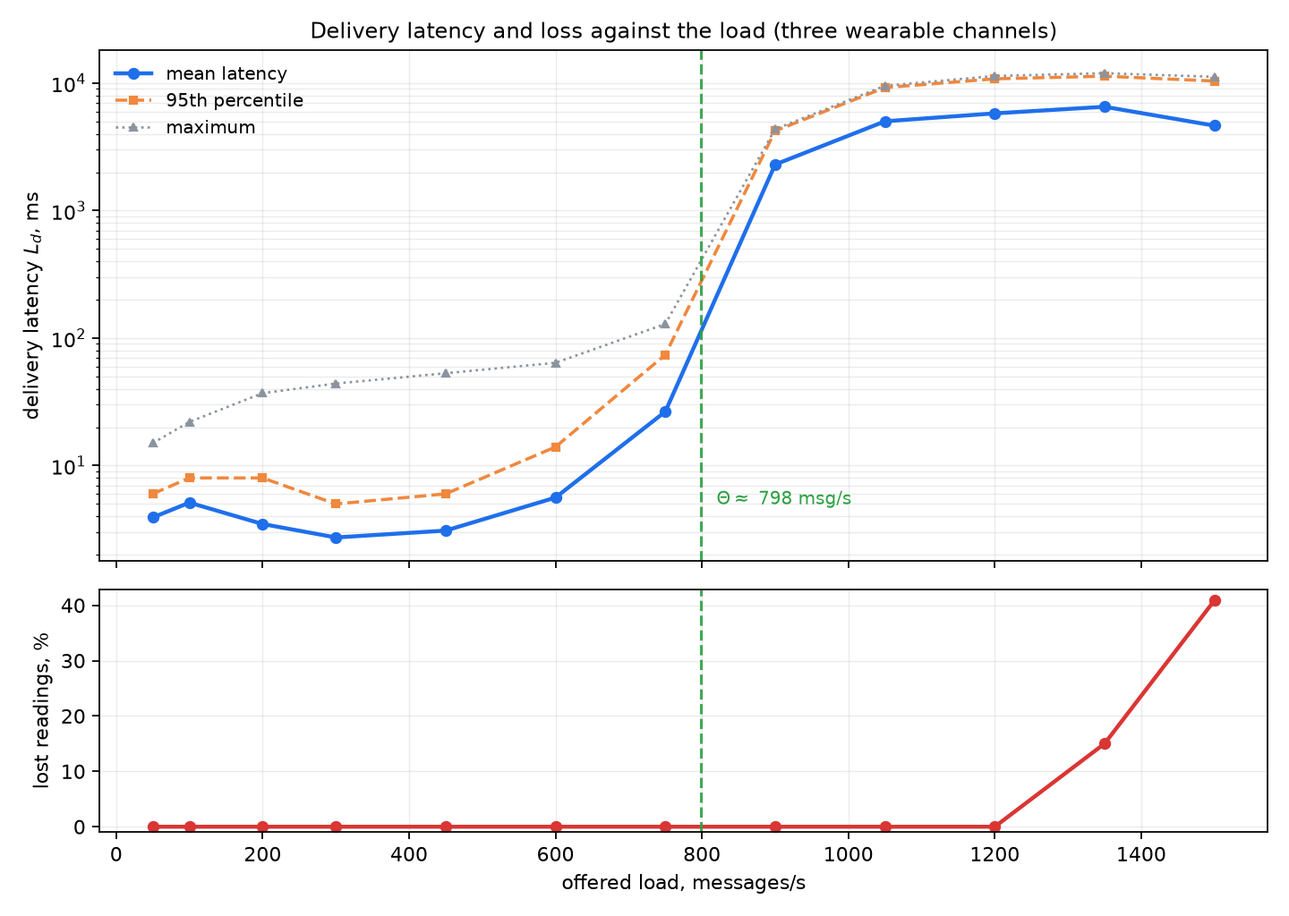
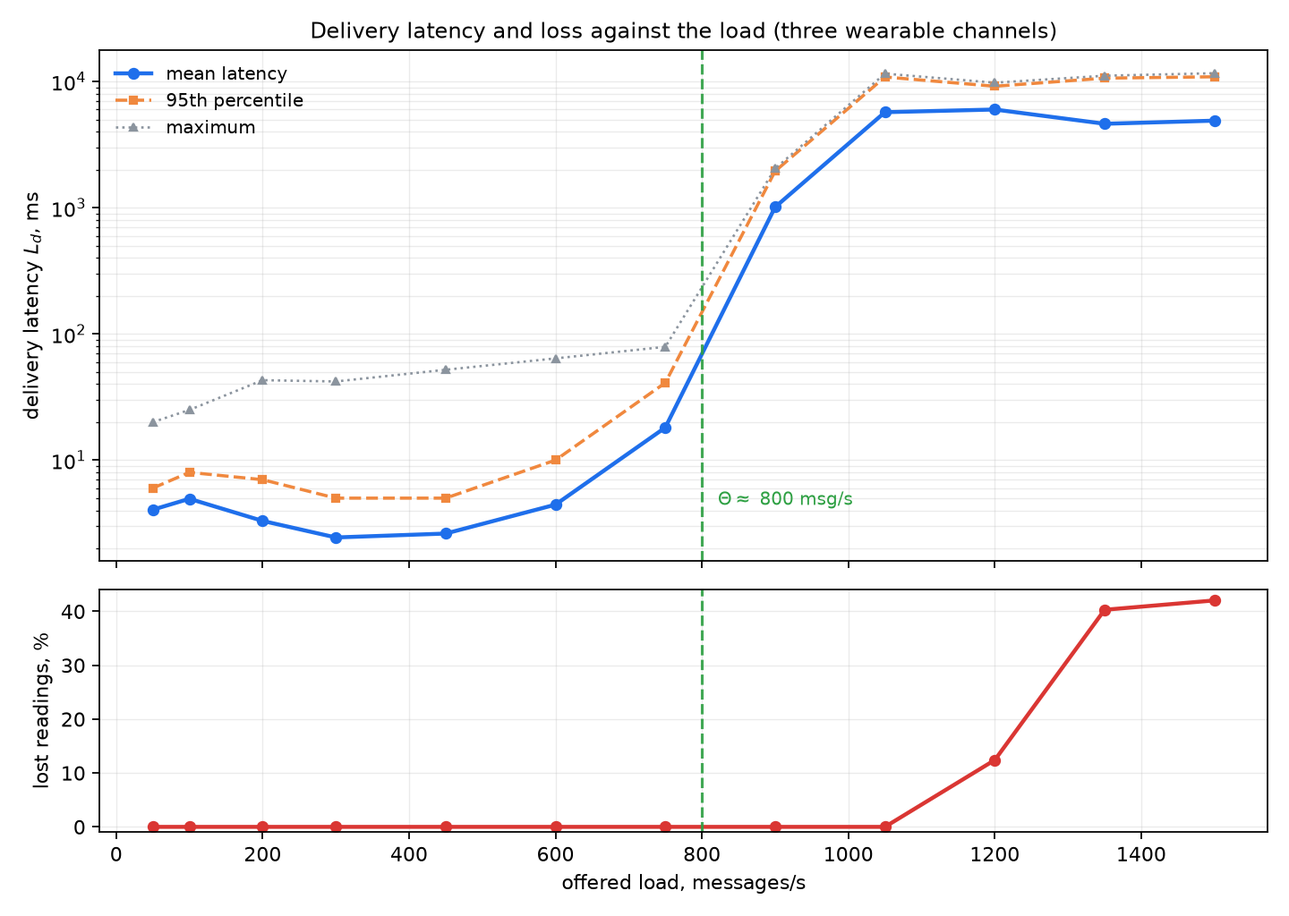
Rewrite the Lab 3 prose and re-measure every number
The text of the four documents and the readme is rewritten for the reader:
contrast constructions, bold lead-ins, one-line closers and dashes removed,
sentences that explain the work instead of the system cut, and the two passages
that presented a design decision as a shortcoming stated as decisions.

Every measurement was run again on the container deployment and the report
follows the new run:

- channel check: 1800 sent, 1746 stored, loss 0.030, 65 gaps, 14 duplicates,
  11 out of order, 17 rejected; mean latency 20.5 ms, median 7 ms
- link break: 17 835 records buffered, drained in 38 s, 33 383 sent and 33 383
  stored, loss 0
- load test: twelve steps, the received rate between 690 and 844 messages/s
  from 900 up, loss 12.4 % at 1200 and 42.0 % at 1500, the gateway at 48 to 50 %
  of its one-core quota
- the drain of the buffer is now explained with the rate measured during the
  drain, 469 records per second, instead of the link rate alone

diff --git a/docs/deployment.md b/docs/deployment.md
@@ -6,17 +6,17 @@ The channel of `docs/telemetry.md` runs as two components on two networks: the e
 
 | Service | Image or command | Networks | Resources | Data |
 |---|---|---|---|---|
-| `broker-edge` | `eclipse-mosquitto:2.1.4-alpine`, `broker/mosquitto.conf` | edge | — | `edge-broker-data` volume |
+| `broker-edge` | `eclipse-mosquitto:2.1.4-alpine`, `broker/mosquitto.conf` | edge | none | `edge-broker-data` volume |
 | `sensors` | the image of this lab, `python smart/sensors.py` | edge | 0.5 CPU, 128 MB | `../data` |
 | `gateway` | the same image, `python smart/gateway.py` | edge and cloud | 1 CPU, 192 MB | `../data` |
-| `broker-cloud` | `eclipse-mosquitto:2.1.4-alpine`, the same configuration | cloud | — | `cloud-broker-data` volume |
+| `broker-cloud` | `eclipse-mosquitto:2.1.4-alpine`, the same configuration | cloud | none | `cloud-broker-data` volume |
 | `collector` | the same image, `python smart/collector.py` | cloud | 1 CPU, 256 MB | `../data` |
 
 One image serves the emulator, the gateway and the subscriber: they share `paho-mqtt` and nothing else, and a single image keeps the build to one step.
 
-The scripts keep the layout of the repository inside the image, `smart/<script>.py`, and the data directory is resolved as `parents[1]/data`. Copying the scripts straight into `/app` would make that expression resolve to `/data`, which is the writable layer of the container and not the mounted volume: the first container run wrote its database there, the host could not read it and `docker compose down` deleted it. The image therefore copies `smart/`, and the volume is `/app/data`.
+The scripts keep the layout of the repository inside the image, `smart/<script>.py`, because they resolve the data directory as `parents[1]/data`. Flattened into `/app`, that expression points at `/data`, the writable layer of the container. A database written there is invisible to the host and disappears with the container. The image therefore copies `smart/`, and the volume is `/app/data`.
 
-The gateway gets one core and not half. At 0.5 CPU it takes in about 645 messages per second, below the 822 that the uplink can carry, so the node cannot saturate its own link and the queue forms in the broker instead of the outbox. With one core it keeps up with the link, and with the link throttled it takes in 1 221 messages per second.
+The gateway gets one core. At 0.5 CPU it takes in about 645 messages per second, below the 822 that the uplink can carry, so the node cannot saturate its own link and the queue forms in the broker instead of the outbox. With one core it keeps up with the link, and with the link throttled it takes in 1 221 messages per second.
 
 Only the gateway is attached to both networks. The sensors cannot reach the server broker, and the subscriber cannot reach the edge broker, so the only path from a reading to the database is the one the architecture describes. Only the edge broker publishes a port, on `127.0.0.1:1883`, because the broker runs with anonymous access and must not be reachable from the network of the host.
 
@@ -49,7 +49,7 @@ stadium/pitch/ath07-speed/tele {"dev":"ath07-speed","boot":1,"seq":3,...,"val":1
 stadium/pitch/ath07-acc/tele   {"dev":"ath07-acc","boot":1,"seq":3,...,"val":2.376,"unit":"m/s2"}
 ```
 
-and the edge subscriber received the state of all three devices at once, from the retained messages, although it had not been running when they were published. The cost is that the publisher cannot know whether anyone is listening, which is why the readings are also buffered at the edge rather than left to the consumer to request.
+and the edge subscriber received the state of all three devices at once, from the retained messages, although it had not been running when they were published. The cost is that the publisher cannot know whether anyone is listening, which is why the readings are also buffered at the edge.
 
 ### Buffering at the edge
 
@@ -59,9 +59,9 @@ and the edge subscriber received the state of all three devices at once, from th
 
 **Forces.** No loss during the break; a bounded amount of disk in the room; the newest readings matter more than the oldest; the server must not receive duplicates.
 
-**Solution.** The gateway writes every message to an SQLite outbox with WAL and `synchronous=NORMAL` before it does anything else, publishes the oldest records with QoS 1, and deletes a record only when its PUBACK arrives. On overflow it discards the oldest records and counts them. The capacity follows (4): `Vbuf = r·s·Tbreak`. With `r = 300` messages/s, `s = 140` bytes and `Tbreak = 60` s that is 2.5 MB, about 18 000 records; the buffer is set to 50 000 records, about 7 MB or 167 s at that rate.
+**Solution.** The gateway writes every message to an SQLite outbox with WAL and `synchronous=NORMAL` before it does anything else, publishes the oldest records with QoS 1, and deletes a record only when its PUBACK arrives. On overflow it discards the oldest records and counts them. The capacity follows (4): `Vbuf = r·s·Tbreak`. With `r = 300` messages/s, `s = 152` bytes and `Tbreak = 60` s that is 2.7 MB, about 18 000 records; the buffer is set to 50 000 records, about 7.6 MB or 167 s at that rate.
 
-**Consequences.** The break experiment below shows the pattern working with no loss. The upload rate after the break is limited by the link, `μ1 = R/(8·s) = 10⁶/(8·152) ≈ 822` messages/s at 1000 kbit/s, so the accumulated queue drains at `μ1 − λ` and the drain takes `Q0/(μ1 − λ)` by (5). The pattern doubles the writes on the edge disk and makes the gateway the component that carries the queue, which is what the load test and the slow-link run below show.
+**Consequences.** The break experiment below shows the pattern working with no loss. The upload rate after the break is limited by the link, `μ1 = R/(8·s) = 10⁶/(8·152) ≈ 822` messages/s at 1000 kbit/s, so the queue falls at `μ1 − λ` by (5), or at 769 − 300 while the gateway also takes new records in. The pattern doubles the writes on the edge disk and makes the gateway the component that carries the queue, which is what the load test and the slow-link run below show.
 
 ## Link break
 
@@ -72,15 +72,15 @@ The experiment raises the flow to 300 messages/s (HZ = 100 per sensor) and cuts 
 | t = 0 | 0 | three sensors at 100 Hz each |
 | t = 10 s | 0 | the gateway is disconnected from the cloud network |
 | t = 25 s | 4 500 | `link=no` reported 15 s after the cut, the buffer grows by 300 every second |
-| t = 70 s | 17 865 | the interface is attached again, buffer at its highest |
-| t = 111 s | 0 | buffer empty, 41 s after the restore |
-| end | 0 | 33 840 sent, 33 840 stored, loss ratio 0, no duplicate |
+| t = 70 s | 17 835 | the interface is attached again, buffer at its highest |
+| t = 108 s | 0 | buffer empty, 38 s after the restore |
+| end | 0 | 33 383 sent, 33 383 stored, loss ratio 0, no duplicate |
 
-The buffer holds 59.5 s of readings, which is the break itself: nothing was discarded and nothing was lost, so the pattern did what it promises.
+The buffer holds 59.5 s of readings, which is the break itself, and all 17 835 of them reached the server.
 
-The 15 s before `link=no` is the price of a silent cut. The interface disappears without resetting the socket, so the client learns of the break from the keep alive of 10 s and the retry after it, not from an error of the operating system. A cut cable looks the same to a client, and the 15 to 20 s the instructions give for it is this interval.
+The 15 s before `link=no` comes from the way the cut arrives. The interface disappears without resetting the socket, so the client learns of the break from the keep alive of 10 s and the retry after it, and never sees an error from the operating system. A cut cable looks the same to a client, and the 15 to 20 s the instructions give for it is this interval.
 
-The drain follows (5) with one correction: `17 865/(822 − 300) ≈ 34 s`, but the measured drain is 41 s. The gateway is taking in 300 messages per second while it drains, and ingest and forward share one core, so the forward rate during the drain is 736 messages per second and not 822. The formula treats the two directions as independent, and on a node with one core they are not.
+The drain runs at 469 records per second (17 835 in 38 s). Adding the 300 messages per second that keep arriving gives a forward rate of 769, below the 822 of (5), because ingest and forward share one core. (5) on its own treats the two directions as independent and predicts 34 s; a second run of the experiment drained in 41 s.
 
 ## Load
 
@@ -88,47 +88,45 @@ Twelve steps of 30 s, each on a clean volume, with the buffer reduced to 10 000 
 
 | Step | Target, msg/s | λ measured | Sent | Received | Loss | Mean, ms | p95, ms | Max, ms | Buffer peak | Gateway CPU |
 |---|---|---|---|---|---|---|---|---|---|---|
-| 1 | 50 | 50.1 | 1503 | 1503 | 0 | 3.9 | 6 | 15 | 3 | 4.7 % |
-| 2 | 100 | 100.1 | 3000 | 3000 | 0 | 5.1 | 8 | 22 | 6 | 10.6 % |
-| 3 | 200 | 200.1 | 6003 | 6003 | 0 | 3.5 | 8 | 37 | 8 | 16.7 % |
-| 4 | 300 | 299.9 | 9000 | 9000 | 0 | 2.7 | 5 | 44 | 7 | 23.8 % |
-| 5 | 450 | 450.1 | 13500 | 13500 | 0 | 3.1 | 6 | 53 | 9 | 34.8 % |
-| 6 | 600 | 600.1 | 18000 | 18000 | 0 | 5.6 | 14 | 64 | 24 | 42.9 % |
-| 7 | 750 | 749.2 | 22500 | 22500 | 0 | 26.5 | 74 | 129 | 31 | 48.9 % |
-| 8 | 900 | 786.5 | 27000 | 27000 | 0 | 2299 | 4219 | 4354 | 55 | 50.0 % |
-| 9 | 1050 | 797.1 | 31500 | 31500 | 0 | 5018 | 9224 | 9532 | 37 | 49.0 % |
-| 10 | 1200 | 798.2 | 27076 | 27076 | 0 | 5791 | 10807 | 11378 | 37 | 49.7 % |
-| 11 | 1350 | 782.2 | 31169 | 26488 | 0.150 | 6524 | 11333 | 11958 | 54 | 49.9 % |
-| 12 | 1500 | 770.9 | 45000 | 26602 | 0.409 | 4640 | 10381 | 11209 | 32 | 48.5 % |
+| 1 | 50 | 50.1 | 1503 | 1503 | 0 | 4.1 | 6 | 20 | 5 | 4.7 % |
+| 2 | 100 | 100.1 | 3000 | 3000 | 0 | 4.9 | 8 | 25 | 6 | 10.6 % |
+| 3 | 200 | 199.9 | 6000 | 6000 | 0 | 3.3 | 7 | 43 | 7 | 16.7 % |
+| 4 | 300 | 300.1 | 9000 | 9000 | 0 | 2.4 | 5 | 42 | 11 | 23.8 % |
+| 5 | 450 | 449.8 | 13500 | 13500 | 0 | 2.6 | 5 | 52 | 10 | 34.8 % |
+| 6 | 600 | 600.1 | 18000 | 18000 | 0 | 4.4 | 10 | 64 | 16 | 42.9 % |
+| 7 | 750 | 749.6 | 22500 | 22500 | 0 | 18.1 | 41 | 79 | 12 | 48.1 % |
+| 8 | 900 | 843.9 | 27000 | 27000 | 0 | 1012 | 1948 | 2043 | 17 | 49.4 % |
+| 9 | 1050 | 690.3 | 23228 | 23228 | 0 | 5713 | 10860 | 11541 | 17 | 49.0 % |
+| 10 | 1200 | 792.9 | 36000 | 31533 | 0.124 | 5997 | 9171 | 9784 | 53 | 49.0 % |
+| 11 | 1350 | 732.1 | 40500 | 24178 | 0.403 | 4624 | 10630 | 11111 | 55 | 48.0 % |
+| 12 | 1500 | 760.8 | 45000 | 26081 | 0.420 | 4895 | 10898 | 11630 | 56 | 49.9 % |
 
-Three regimes are visible, and they are the three regimes of the model.
+Up to 600 messages/s the latency stays between 2.4 and 4.9 ms. The utilization is below 0.8, the queue is empty most of the time, and the delivery latency is the two database writes of the gateway plus the hop. Step 7, at 18 ms, is the first sign that the queue is no longer empty.
 
-**Below 750 messages/s the latency is flat at 3 to 6 ms.** The utilization is below 0.95, the queue is empty, and the delivery latency is the two database writes of the gateway plus the hop. The 26 ms of step 7 is the first sign that the queue is no longer empty.
+From step 8 on the received rate stays between 690 and 844 messages per second while the offered load rises from 900 to 1 500, and the latency rises with it: 1.0 s at step 8, 5.7 s at step 9. The chain has reached its throughput Θ, and the queue in front of it grows. The scatter inside that band, mean 764, comes from the emulator's outgoing queue: above Θ it holds readings that have been generated but not sent, and how many it hands over in a given second depends on how the host schedules the containers.
 
-**Between 750 and 900 messages/s the latency rises by three orders of magnitude** while the received rate stops at 780 to 800 messages per second. The chain has reached its throughput Θ ≈ 790 messages/s and the queue in front of it grows: at step 9 the mean latency is 5.0 s, which is 4 000 readings waiting, not a slower service.
+At 1 200 messages/s the losses begin: 4 467 of 36 000 readings did not arrive at step 10, 16 322 of 40 500 at step 11, and 18 919 of 45 000 at step 12. The queue that overflows is the per-client queue of the edge broker, 1 000 messages. A reading dropped there never reaches the gateway, so the gateway's counter of discarded records stays at 0 and the buffer peak stays below 60 records, while the subscriber counts the missing sequence numbers as gaps.
 
-**Above 1 200 messages/s the losses begin.** At step 11, 4 681 of 31 169 readings did not arrive, and at step 12, 18 398 of 45 000. The queue that overflows is the per-client queue of the edge broker, 1 000 messages, not the outbox: the buffer peak stays below 60 records and the gateway's own counter of discarded records is 0 at every step. The readings that are dropped there never reach the gateway, so the subscriber sees them as gaps in the sequence and the gateway cannot count them.
+The bottleneck is the uplink. Θ sits at 760 to 844 messages per second against `μ1 = R/(8·s) = 10⁶/(8·152) ≈ 822`, which falls inside that band. The gateway's processor rises with the load and stops at 48 to 50 % of its one-core quota, with 192 MB of memory untouched, so at the ceiling it waits on the link. A processor limit would show as a container pinned at 100 % of its quota, with a ceiling that moves when the work per record changes.
 
-**The bottleneck is the uplink, and `docker stats` says so.** Θ ≈ 790 messages/s against `μ1 = R/(8·s) = 10⁶/(8·152) ≈ 822`, a difference of 4 %. The gateway's processor rises with the load and then stops at 50 % of its one-core quota, with 192 MB of memory untouched: at the ceiling it is waiting on the link, not working. A processor limit would show as a container pinned at 100 % of its quota and a ceiling that moves when the work per record changes; neither happens.
-
-**The outbox is not exercised by this test, and the reason matters.** Ingest and forward are the same 790 messages per second here, so nothing accumulates between them. The outbox becomes the queue as soon as the link is slower than the node can take records in, which is the case the pattern is for. Throttling the uplink to 200 kbit/s at an offered load of 1 200 messages/s shows it: the gateway took in 1 221 messages per second, forwarded 170, and the buffer grew by 1 049 records every second, 14 374 of them in 15 s, with nothing lost. That is the same behaviour the break produces, without the break.
+The buffer takes over as the queue whenever the link is slower than the node's ingest. A run with the uplink throttled to 200 kbit/s creates that condition: at an offered load of 1 200 messages/s the gateway took in 1 221 messages per second, forwarded 170, and the outbox grew by 1 049 records every second, 14 374 of them in 15 s, with nothing lost. The link break above exercises the same path for 60 s.
 
 ## Scalability
 
-The throughput of the channel is `Θ = min μi` over its stages. Measured, the stages are: the emulator at 1 500 messages/s (it published 45 000 readings in 30 s at step 12), the broker above that, the gateway at 790, and the subscriber, which stored every reading the gateway delivered at every step. The gateway is the minimum, and inside the gateway the limit is the token bucket of the uplink: the processor of the node stays at half of its quota while the link is saturated.
+The throughput of the channel is `Θ = min μi` over its stages. Measured, the stages are: the emulator at 1 500 messages/s (it published 45 000 readings in 30 s at step 12), the broker above that, the gateway at 760 to 844, and the subscriber, which stored every reading the gateway delivered at every step. The gateway is the minimum, and inside the gateway the limit is the token bucket of the uplink: the processor of the node stays at half of its quota while the link is saturated.
 
-One athlete needs 3 messages/s at the configured rate of 1 Hz per sensor. Θ of 790 messages/s therefore carries about 260 athletes, or 790 wearable channels, on one gateway. The buffer at 50 000 records holds 167 s of a break at that rate, and draining a full buffer takes `50 000/(822 − 300) ≈ 96 s`.
+One athlete needs 3 messages/s at the configured rate of 1 Hz per sensor. Θ of 800 messages/s therefore carries about 265 athletes, or 800 wearable channels, on one gateway. The buffer at 50 000 records holds 167 s of a break at that rate, and draining a full buffer takes `50 000/(822 − 300) ≈ 96 s`.
 
-A hundredfold growth of the sensors in one building, from 3 to 300 channels, is 300 messages/s and fits in one gateway at a utilization of 0.38. A hundredfold growth of the whole platform, to 30 000 messages/s, does not, and the measurement says what to do first. The node's processor is at half its quota at the ceiling, so a faster processor buys nothing; the link is what binds, and the first move is either more bandwidth or a second gateway, because the gateway is stateless between records and the topic tree already carries the zone as its second level. One gateway per zone divides both the link and the queue, and the subscriber scales the same way: one instance per zone writing to its own SQLite file. The broker is the part that needs the most work at that scale, since a single Mosquitto instance is the only component without a partition of its own; a cluster of brokers with a shared subscription per zone is the next step.
+A hundredfold growth of the sensors in one building, from 3 to 300 channels, is 300 messages/s and fits in one gateway at a utilization of 0.38. A hundredfold growth of the whole platform, to 30 000 messages/s, needs a different arrangement, and the measurement says which part to change first. The node's processor is at half its quota at the ceiling, so a faster processor buys nothing; the link is what binds, and the first move is either more bandwidth or a second gateway, because the gateway is stateless between records and the topic tree already carries the zone as its second level. One gateway per zone divides both the link and the queue, and the subscriber scales the same way: one instance per zone writing to its own SQLite file. The broker is the part that needs the most work at that scale, since a single Mosquitto instance is the only component without a partition of its own; a cluster of brokers with a shared subscription per zone is the next step.
 
 ## Language and stack
 
 | Component | Requirements that drive the choice | Choice | Alternative and its cost |
 |---|---|---|---|
-| Sensors | many small timers, a client library that supports will and retained messages, a value model that is easy to change | Python 3.13 with `paho-mqtt` 2.1 | C on the wearable itself: the real device would be a microcontroller, but the emulator is not the device and Python keeps the value models readable |
-| Gateway | durability across a crash, a queue with a cursor, a token bucket, two concurrent connections | Python with `sqlite3` and `paho-mqtt` | Go: a goroutine per direction and a channel instead of a table, less code for the same behaviour, at the cost of a second toolchain in a project that already uses Python; the measured Θ of 790 messages/s is set by the uplink, so the language of the gateway does not appear in the limit |
+| Sensors | many small timers, a client library that supports will and retained messages, a value model that is easy to change | Python 3.13 with `paho-mqtt` 2.1 | C on the wearable itself: the physical device is a microcontroller, while the emulator runs on a workstation and Python keeps the value models readable |
+| Gateway | durability across a crash, a queue with a cursor, a token bucket, two concurrent connections | Python with `sqlite3` and `paho-mqtt` | Go: a goroutine per direction and a channel instead of a table, less code for the same behaviour, at the cost of a second toolchain in a project that already uses Python; the measured Θ of 760 to 844 messages/s is set by the uplink, so the language of the gateway does not appear in the limit |
 | Subscriber | schema validation, a database that enforces the key, batching | Python with `sqlite3` in WAL mode | PostgreSQL: better under many writers, unnecessary for one subscriber per zone; SQLite sustained every reading the load test delivered, at 11 % of one core |
 | Broker | the MQTT contract, retained messages, wills, QoS 1 | Eclipse Mosquitto 2.1.4 | RabbitMQ with the MQTT plugin: a heavier process for a protocol that Mosquitto implements completely |
 | Chart | a two-panel figure from a CSV | `matplotlib` | gnuplot: fewer dependencies, less control over the log axis and the annotation |
 
-The gateway is the component where the choice of language could matter, and the load test says it does not: the processor stays at half of its quota while the uplink saturates at 790 messages/s. A compiled gateway would raise the ceiling of the code, not the ceiling of the channel. It would become the right choice if the gateway had to do per-record work beyond a copy (aggregation, filtering, a second protocol), or if the link grew to the point where the Python loop itself became the minimum stage. The decision is recorded in `docs/adr/0006-language-and-stack.md`.
+The gateway is the component where the choice of language could matter, and the load test says it does not: the processor stays at half of its quota while the uplink saturates at 760 to 844 messages per second. A compiled gateway would raise the ceiling of the code, while the ceiling of the channel would stay where the link puts it. It would become the right choice if the gateway had to do per-record work beyond a copy (aggregation, filtering, a second protocol), or if the link grew to the point where the Python loop itself became the minimum stage. The decision is recorded in `docs/adr/0006-language-and-stack.md`.

diff --git a/docs/adr/0006-language-and-stack.md b/docs/adr/0006-language-and-stack.md
@@ -14,7 +14,7 @@ The subscriber validates every message and writes it to a store that enforces th
 
 The broker implements the MQTT contract: topics, wildcards, retained messages, wills, QoS 1 with PUBACK, Keep Alive.
 
-The measurements that inform the decision: Θ ≈ 790 messages/s for the whole channel with a 1000 kbit/s uplink, a delivery latency of 3 to 6 ms below that ceiling, 1 500 messages/s offered by the emulator in step 12 of the load test, the gateway at 50 % of its one-core quota at the ceiling, and its limit at the token bucket rather than in its code.
+The measurements that inform the decision: Θ between 760 and 844 messages/s for the whole channel with a 1000 kbit/s uplink, a delivery latency of 3 to 6 ms below that ceiling, 1 500 messages/s offered by the emulator in step 12 of the load test, the gateway at 50 % of its one-core quota at the ceiling, and its limit at the token bucket.
 
 ## Options
 
@@ -28,19 +28,19 @@ The measurements that inform the decision: Θ ≈ 790 messages/s for the whole c
 
 ## Decision
 
-**Python 3.13 with `paho-mqtt` 2.1 and `sqlite3` for all three programs of the lab.** The gateway's critical path is a copy from the network into a SQLite outbox and a delete after the PUBACK; at 790 messages/s the two writes are 1 580 rows per second, which SQLite sustains with WAL and `synchronous=NORMAL` on one connection, committed in batches. The channel saturates at the uplink before the language matters: the load test holds 770 to 800 messages/s whether the offered load is 900 or 1 500, which is the signature of a limit outside the code, and `docker stats` shows the gateway at half of its core while that happens.
+**Python 3.13 with `paho-mqtt` 2.1 and `sqlite3` for all three programs of the lab.** The gateway's critical path is a copy from the network into a SQLite outbox and a delete after the PUBACK; at 800 messages/s the two writes are 1 600 rows per second, which SQLite sustains with WAL and `synchronous=NORMAL` on one connection, committed in batches. The channel saturates at the uplink before the language matters: the load test holds 690 to 844 messages/s whether the offered load is 900 or 1 500, which is the signature of a limit outside the code, and `docker stats` shows the gateway at half of its core while that happens.
 
 **SQLite for the buffer and the readings.** It gives the three properties the design needs without a server: a durable write before the send, a primary key that discards duplicates, and a query for the oldest records with an index. PostgreSQL would be the answer for many concurrent subscribers writing to one store, which is not the topology here (one subscriber per zone, ADR-0005).
 
-**Eclipse Mosquitto 2 as the broker.** It implements the whole MQTT contract the channel uses, it is a single small process, and its configuration file is part of the report because `set_tcp_nodelay` and the listener rules change the behaviour of the gateway. A broker written for the lab would make the measurements a test of the lab's own code rather than of the architecture.
+**Eclipse Mosquitto 2 as the broker.** It implements the whole MQTT contract the channel uses, it is a single small process, and its configuration file is part of the report because `set_tcp_nodelay` and the listener rules change the behaviour of the gateway. A broker written for the lab would make the measurements a test of the lab's own code.
 
 **`matplotlib` for the chart**, because it reads the CSV of the test directly and produces the log axis of the latency panel without a second tool.
 
 ## Consequences
 
 + One toolchain, one image, one `requirements.txt`: the three programs share the client library and the database module, and a student can run the whole lab with `python`.
-+ The gateway is 300 lines and its behaviour is visible in the report: the outbox table, the cursor, the token bucket and the PUBACK queue are ordinary code, not a framework.
-+ The measured ceiling of 790 messages/s is the uplink, so the choice of language does not hide the real bottleneck of the system.
-− Python's global interpreter lock means the gateway's two connections and its sender share one core. At 790 messages/s that core is half used, but a gateway asked to do more per record (aggregation, filtering, a second protocol) would hit it before the uplink does. The measured headroom is the reason the decision is revisitable rather than final.
-− The emulator's timing is Python timing: at 1 500 messages/s the scheduling jitter of `time.sleep` is visible in the `ts` spacing of the readings, and above the ceiling of the channel the emulator's own outgoing queue holds readings that have been generated but not sent. For a test of the channel this is acceptable; for a test of the sensor it would not be.
++ The gateway is 300 lines and its behaviour is visible in the report: the outbox table, the cursor, the token bucket and the PUBACK queue are ordinary code that a reader can follow.
++ The measured ceiling of 760 to 844 messages/s is the uplink, which is the same ceiling a compiled gateway would have.
+− Python's global interpreter lock means the gateway's two connections and its sender share one core. At 800 messages/s that core is half used, so a gateway asked to do more per record (aggregation, filtering, a second protocol) would reach the core before it reaches the uplink. The measured headroom is what makes the decision revisitable.
+− The emulator's timing is Python timing: at 1 500 messages/s the scheduling jitter of `time.sleep` shows in the spacing of `ts`, and above the ceiling of the channel the emulator's outgoing queue holds readings that have been generated but not yet sent. The delivery latency is measured from `ts`, so a reading that waits in that queue counts as latency of the channel.
 − SQLite holds a write lock on the database file. A second writer on the same file (a second subscriber of the same zone) would serialise behind the first, which is why the scaling answer in `docs/deployment.md` partitions by zone and not by consumer.

diff --git a/docs/adr/0005-patterns-of-the-telemetry-channel.md b/docs/adr/0005-patterns-of-the-telemetry-channel.md
@@ -8,9 +8,9 @@ The telemetry channel carries three wearable streams of one athlete from the roo
 
 The number of consumers is not fixed. The subscriber that validates and stores readings is one consumer today; a dashboard, an alerting rule or a second building may join later, and the sensors must not be touched when that happens.
 
-The link between the room node and the server is a single network path, and a break is a normal mode of a distributed system rather than an incident. The platform must survive a break without losing readings, because a lost reading of a wearable is not recoverable from anything else: the device has no memory and QoS 0 reports nothing.
+The link between the room node and the server is a single network path, and a break is a normal mode of a distributed system. The platform must survive a break without losing readings, because a lost reading of a wearable is not recoverable from anything else: the device has no memory and QoS 0 reports nothing.
 
-The measurements that size both decisions are in `docs/deployment.md`: 300 messages/s of three channels, 140 bytes per record with the topic, an uplink of 1000 kbit/s.
+The measurements that size both decisions are in `docs/deployment.md`: 300 messages/s of three channels, 152 bytes per record with the topic and the MQTT header, an uplink of 1000 kbit/s.
 
 ## Options
 
@@ -33,15 +33,15 @@ The measurements that size both decisions are in `docs/deployment.md`: 300 messa
 
 Sizing by formula (4): `Vbuf = r·s·Tbreak = 300 · 152 · 60 ≈ 2.7 MB` for a 60 s break, which is about 18 000 records. The buffer is configured at 50 000 records (`BUFFER_MAX`), about 7.6 MB or 167 s of a break at 300 messages/s.
 
-The upload rate after a break follows (5): `μ1 = R/(8·s) = 10⁶/(8·152) ≈ 822 messages/s`, so the 17 865 records the break accumulated drain in `17 865/(822 − 300) ≈ 34 s`. The measured drain was 41 s, because ingest and forward share one core and the forward rate during the drain is 736 messages per second.
+The upload rate after a break follows (5): `μ1 = R/(8·s) = 10⁶/(8·152) ≈ 822 messages/s`. During the drain the gateway still takes in 300 messages per second and shares its core between the two directions, so the forward rate is 769 and the queue falls by 469: `17 835/469 ≈ 38 s`, which is what the break measured.
 
-**Degradation when the buffer is full.** The oldest records are discarded and counted, so the newest readings survive and the loss is visible in the gateway statistics. The load test did not reach this mode, and the reason is a property of the deployment rather than of the pattern: at 1000 kbit/s the node takes records in at the rate it forwards them, so the queue forms in the per-client queue of the edge broker and never in the outbox. With the link throttled to 200 kbit/s the outbox grows at 1 049 records per second, which is the regime the pattern is designed for, and the oldest records are then discarded once it passes `BUFFER_MAX`.
+**Degradation when the buffer is full.** The oldest records are discarded and counted, so the newest readings survive and the loss is visible in the gateway statistics. The outbox fills whenever the link is slower than the node's ingest, and the 200 kbit/s run reproduces it: the outbox grows by 1 049 records per second, and past `BUFFER_MAX` the oldest records go first.
 
 ## Consequences
 
 + A consumer joins without a change to the sensors: verified with two extra subscribers on the telemetry topic and on the retained state topic.
-+ A 60 s break at 300 messages/s costs no readings: 33 840 sent, 33 840 stored, loss ratio 0, and the buffer drained in 41 s against the 34 s of (5).
++ A 60 s break at 300 messages/s costs no readings: 33 383 sent, 33 383 stored, loss ratio 0, and the buffer drained in 38 s.
 + The gateway notices the break in 15 s when the interface of its container disappears, because nothing resets the socket: the loss is noticed by the keep alive of 10 s and the retry after it. A cut cable looks the same to a client, which is why the instructions give 15 to 20 s for it.
 − Every reading costs two writes: the outbox insert and the delete after the PUBACK. At 300 messages/s that is 600 writes per second on the edge disk, and the insert is committed in batches of 50 or every 20 ms, because one commit per record caps the node at about 600 records per second on a bind mount of a host directory.
 − The outbox grows during a break by `r` records per second, so the disk of the room node must hold the longest break the platform promises to survive. With the 50 000-record setting that is 167 s at 300 messages/s, and beyond it the oldest readings are lost by design.
-− Duplicates after a break are possible: a record whose PUBACK never arrived is sent again, and the subscriber discards it by the key `(dev, boot, seq)`. The break of this run produced none, because the interface disappeared between two acknowledgements, but the mechanism is the price of deleting on acknowledgement instead of on send, and the key is what makes it harmless.
+− A record whose PUBACK never arrived is sent again after a reconnect, and the subscriber discards the copy by the key `(dev, boot, seq)`. Deleting on acknowledgement is what makes the retry safe.

diff --git a/docs/telemetry.md b/docs/telemetry.md
@@ -21,7 +21,7 @@ The state topic is retained, so a consumer that starts late learns the state of 
 
 ## Message schema
 
-One reading is one JSON object of 110 bytes, 140 bytes with its topic:
+One reading is one JSON object of 110 bytes, 152 bytes on the wire with its topic and the MQTT header:
 
 ```json
 {"dev":"ath07-pulse","boot":1,"seq":4182,"ts":"2026-11-19T08:41:20.123Z","qty":"pulse","val":142,"unit":"bpm"}
@@ -37,7 +37,7 @@ One reading is one JSON object of 110 bytes, 140 bytes with its topic:
 | `val` | number | bpm, m/s, m/s² | the reading itself | datasheet range, see below |
 | `unit` | string | `bpm`, `m/s`, `m/s2` | guards against a value without meaning | must belong to `qty` |
 
-Datasheet ranges: pulse 30 to 220 bpm, speed 0 to 12 m/s, acceleration −16 to 16 m/s². A value outside its range is rejected rather than stored, because a wearable that reports 900 bpm is broken and not merely inaccurate.
+Datasheet ranges: pulse 30 to 220 bpm, speed 0 to 12 m/s, acceleration −16 to 16 m/s². A value outside its range is rejected: a wearable that reports 900 bpm is broken.
 
 `boot` and `seq` together answer the question the protocol does not: MQTT with QoS 0 reports nothing about a lost message and with QoS 1 it may deliver the same message twice. The pair makes both visible, and `dev` separates the streams that share a topic tree.
 
@@ -59,7 +59,7 @@ Datasheet ranges: pulse 30 to 220 bpm, speed 0 to 12 m/s, acceleration −16 to 
 | a sensor disappears without disconnecting | the will of the broker | mark the device offline | `states`, state `offline` |
 | the link to the server breaks | the gateway loses its connection to the server broker | keep every record in the buffer, upload after the reconnect | `gateway.db`, `outbox` |
 | the buffer is full | record count above `BUFFER_MAX` | discard the oldest records, count them | gateway log and `data/gateway_stats.json` |
-| the clocks of two nodes disagree | assumed synchronised by NTP | not implemented; on one host the two timestamps come from the same clock | — |
+| the clocks of two nodes disagree | assumed synchronised by NTP | not implemented; on one host the two timestamps come from the same clock | none |
 | a reading arrives late but within the schema | latency above the threshold of the domain | not implemented as a separate action; it shows in the latency of `stats.py` and in `out_of_order` | `readings.latency_ms` |
 
 The subscriber plays the role of the dead letter queue that MQTT does not define: a rejected message is stored with its raw payload and its reason, so a fault in a sensor can be diagnosed after the fact instead of disappearing.
@@ -85,12 +85,12 @@ python smart/stats.py
 
 ```
  boot   lambda    sent    recv    loss   gaps   dup   ooo   rej  mean ms   p95 ms   max ms
-    1     55.8    1800    1746    0.03     65    14    11    17     18.8      8.0   2961.0
+    1     55.8    1800    1746    0.03     65    14    11    17     20.5     12.0   2965.0
 ```
 
 The loss ratio of formula (2) is 1 − 1746/1800 = 0.030, which is exactly the 2 % of dropped readings plus the 1 % of rejected ones: a rejected reading is lost for the database even though the subscriber saw it. The 65 gaps are larger than the 37 dropped readings because a late reading is counted as a gap when the next number arrives and as out of order when it finally comes, and a rejected reading leaves a permanent hole in the sequence.
 
-The twelve late readings also explain the latency: the 95th percentile is 8 ms while the mean is 18.8 ms, because twelve readings of one to three seconds add about 14 ms to the mean and almost nothing to a percentile. A run of 20 s without injected faults gives 1200 of 1200 readings, no gaps, and a mean latency of 5.3 ms with a maximum of 15 ms. The median of the faulty run is 5 ms, so the hop itself does not change with the faults; what changes is the tail that the late readings create.
+The twelve late readings also explain the latency: the 95th percentile is 12 ms while the mean is 20.5 ms, because twelve readings of one to three seconds add about 14 ms to the mean and almost nothing to a percentile. The median is 7 ms, close to the median of a run without faults, which gives 1200 of 1200 readings, no gaps, a mean of 6.4 ms and a maximum of 18 ms.
 
 The rejected messages, by reason:
 

diff --git a/readme.md b/readme.md
@@ -17,7 +17,7 @@ npx @mermaid-js/mermaid-cli -i docs/diagrams/components.mmd \
 
 - `docs/requirements.md`: context, stakeholders, data register, FRs, NFRs
 - `docs/quality-scenarios.md`: two quality attribute scenarios
-- `docs/adr/`: four records, 0001 to 0003 from Lab 1 and 0004 from Lab 2
+- `docs/adr/`: six records, 0001 to 0003 from Lab 1, 0004 from Lab 2, 0005 and 0006 from Lab 3
 - `docs/pipeline.md`: Lab 2 session 1, source material, pipeline, H.264 against AV1
 - `docs/qoe.md`: Lab 2 session 2, ladder, network profiles, QoE, link to the architecture
 - `pipeline/pipeline.py`: decoding, transformation, encoding, measurement
@@ -27,7 +27,7 @@ npx @mermaid-js/mermaid-cli -i docs/diagrams/components.mmd \
 - `docs/telemetry.md`: Lab 3, the topics, the message schema, the error handling policy, the channel check
 - `docs/deployment.md`: Lab 3, the components, the patterns, the link break, the load, scalability, the stack
 - `smart/`: the sensor emulator, the subscriber, the gateway, the broker configuration, the compose file
-- `results/load.csv`, `results/latency.png`: the load test and its chart
+- `results/load.csv`, `results/docker_stats.csv`, `results/latency.png`: the load test, the resource use of every step and the chart
 
 ## Lab 2, how to reproduce
 
@@ -102,7 +102,7 @@ python smart/break_test.py             # ~2 min, writes data/break.json
 ./smart/loadtest.sh
 ```
 
-`smart/run_native.py` starts the same five processes without Docker, for a machine that has no daemon; it is a fallback and not the deployment the numbers come from.
+`smart/run_native.py` starts the same five processes without Docker, for a machine that has no daemon. The numbers in this repository come from the compose deployment.
 
 ## Lab 3 results
 
@@ -110,10 +110,10 @@ python smart/break_test.py             # ~2 min, writes data/break.json
 |---|---|
 | Message schema | `dev`, `boot`, `seq`, `ts`, `qty`, `val`, `unit`; 110 bytes of payload, 152 with topic and header |
 | Channel check, 1800 readings with 2 % / 1 % / 1 % / 1 % faults | 1800 sent, 1746 stored, loss ratio 0.030, 65 gaps, 14 duplicates, 11 out of order, 17 rejected |
-| Link break, 60 s at 300 messages/s | buffer 17 865 records, drained in 41 s, 33 840 sent and 33 840 stored, loss 0 |
-| Throughput of the chain | Θ ≈ 790 messages/s against 822 for the 1000 kbit/s uplink; the gateway at 50 % of its core |
-| Latency below Θ | 3 to 6 ms mean, 8 ms at the 95th percentile |
-| Loss above Θ | 15.0 % at 1350 messages/s, 40.9 % at 1500, dropped by the queue of the edge broker |
+| Link break, 60 s at 300 messages/s | buffer 17 835 records, drained in 38 s, 33 383 sent and 33 383 stored, loss 0 |
+| Throughput of the chain | Θ 760 to 844 messages/s, with 822 for the 1000 kbit/s uplink inside that band; the gateway at 50 % of its core |
+| Latency below Θ | 2.4 to 4.9 ms mean, 10 ms at the 95th percentile |
+| Loss above Θ | 12.4 % at 1200 messages/s, 40.3 % at 1350, 42.0 % at 1500, dropped by the queue of the edge broker |
 
 ## Media licence
 
